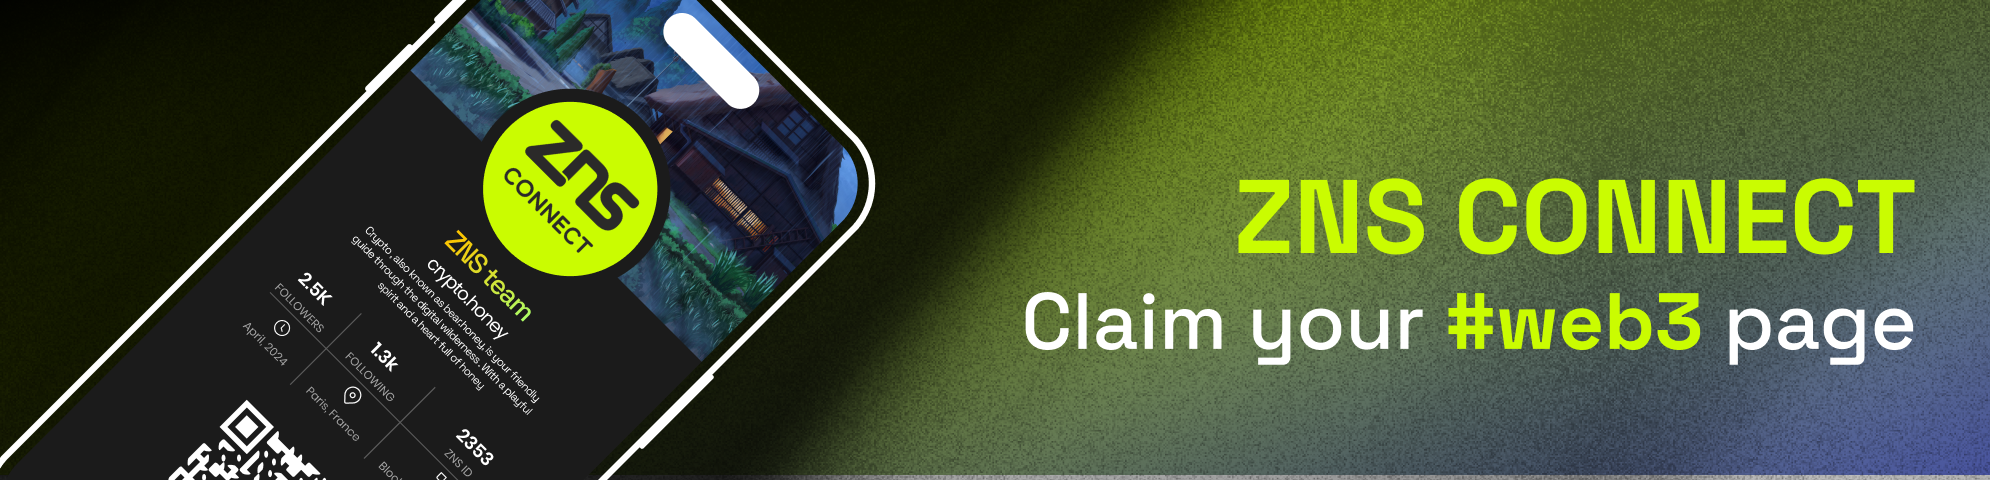
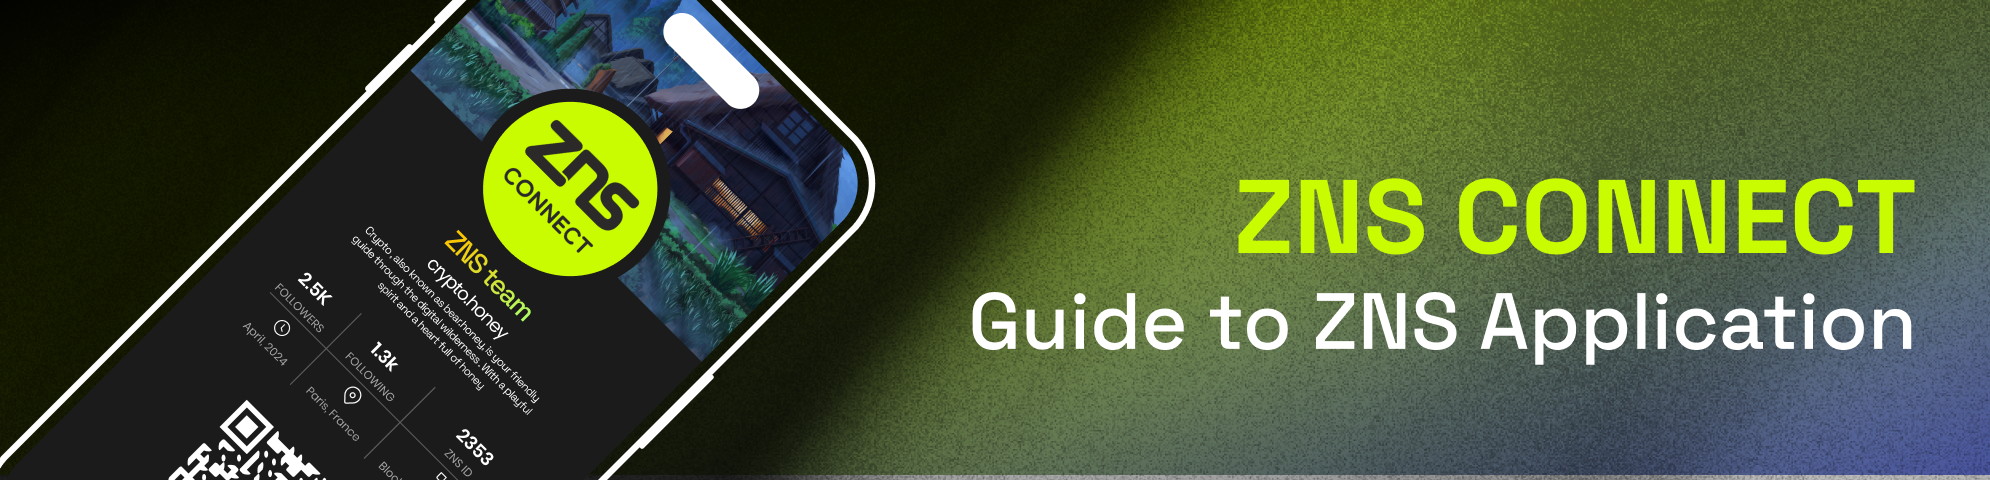
GITBOOK-153: change request with no subject merged in GitBook

Changed region(s): [[0.4673, 0.5938, 0.9658, 0.7812]]

diff --git a/guide.md b/guide.md
@@ -1,0 +1,83 @@
+---
+description: Technical Implementation of ZNS
+cover: .gitbook/assets/1990-490 Welcome (1).png
+coverY: 0
+---
+
+# 👨🏫 Guide to ZNS Application
+
+#### Unlock the Full Potential of ZNS Connect: A Guide to ZNS Application
+
+> Are you ready to take your experience with ZNS Connect to the next level? Let’s dive into the key features and functionalities that will enhance your journey: [https://v3.znsconnect.io/](https://v3.znsconnect.io/)
+
+1. **Smart Search:** Utilize the smart search function to effortlessly identify unoccupied domains, streamlining your search process and saving you valuable time.
+
+<figure><img src="https://cdn-images-1.medium.com/max/960/1*LgJHdirCbxZXk6cW3lcRQw.png" alt=""><figcaption></figcaption></figure>
+
+**2. Registration Process:** Seamlessly register your desired domain by following a straightforward process. Choose your preferred registration period and complete your transaction with a simple click of the “Checkout” button.
+
+<figure><img src="https://cdn-images-1.medium.com/max/960/1*VqD9EkgPcj_W-kU4JIGDkQ.png" alt=""><figcaption></figcaption></figure>
+
+**3. Manage Domains:** Take control of your domains by accessing the “[My Domains](https://v3.znsconnect.io/mydomain)” section.&#x20;
+
+<figure><img src="https://cdn-images-1.medium.com/max/960/1*4ulzsYsTpCDy1F_DCh1GSQ.png" alt=""><figcaption></figcaption></figure>
+
+Here, you can add essential details such as your name, bio, location, website, and category to customize your online presence.
+
+<figure><img src="https://cdn-images-1.medium.com/max/640/1*JKRuy7wTy4JEpOyOqNpzOA.png" alt=""><figcaption></figcaption></figure>
+
+**4. Social Integration:** Connect your domain with your social media accounts to further amplify your online presence. Easily add and verify social media accounts associated with your domain with just a few clicks.
+
+<figure><img src="https://cdn-images-1.medium.com/max/640/1*ClnxqiX7WGxBsvD6xF2r7w.png" alt=""><figcaption></figcaption></figure>
+
+<figure><img src="https://cdn-images-1.medium.com/max/640/1*ng7QB4ED3FkbvpFVcIH0NQ.png" alt=""><figcaption></figcaption></figure>
+
+**5. Domain Maintenance:** Keep your domains up-to-date with the option to renew or delete as needed. This ensures that your online presence remains current and relevant.
+
+<figure><img src="https://cdn-images-1.medium.com/max/960/1*ZjU64SLWgctE7I-7yJkjpg.png" alt=""><figcaption></figcaption></figure>
+
+**6. Gift Cards ( Credits) Functionality:** Explore the exciting functionality of [Credits](https://v3.znsconnect.io/settings?tab=credits) . Easily mint a Gift Card of Credits by entering the desired amount in the settings.
+
+<figure><img src="https://cdn-images-1.medium.com/max/640/1*m6p6iWlZjfSFXchg3_qvbQ.png" alt=""><figcaption></figcaption></figure>
+
+To redeem, navigate to the [Gift Cards](https://v3.znsconnect.io/settings?tab=gift-cards) menu and click **“Redeem”**
+
+<figure><img src="https://cdn-images-1.medium.com/max/640/1*xaiUbjHIOAEPqleZbZhqjg.png" alt=""><figcaption></figcaption></figure>
+
+**7. Sending Gift Cards:** Spread the joy by sending Gift Cards to friends and loved ones. Enter the recipient’s name and address along with the desired amount, making it a breeze to share the gift of personalized domains.
+
+<figure><img src="https://cdn-images-1.medium.com/max/960/1*31ujKQ-knyTZQmSSCLrrTQ.png" alt=""><figcaption></figcaption></figure>
+
+**8. Credit Usage:** Maximize your credits by applying them towards your domain purchases. During checkout, select “Use your credit” and choose “Max” to cover gas fees effortlessly.
+
+<figure><img src="https://cdn-images-1.medium.com/max/960/1*JSCM3S4pZyGwMX5IV9aguQ.png" alt=""><figcaption></figcaption></figure>
+
+**9. Affiliate Program:** Join our [Affiliate Program](https://v3.znsconnect.io/affiliate) to create a custom referral link and earn rewards for spreading the word about ZNS Connect to your network.
+
+<figure><img src="https://cdn-images-1.medium.com/max/960/1*k5cGVbX4vqMh02NuTKCchQ.png" alt=""><figcaption></figcaption></figure>
+
+**10. Badge Claiming:** Engage in on-chain activities to earn badges and showcase your accomplishments on [Badges page](https://v3.znsconnect.io/badges)
+
+<figure><img src="https://cdn-images-1.medium.com/max/640/1*tGR2iLg-K36yJGvtVVvbLg.png" alt=""><figcaption></figcaption></figure>
+
+Visit My Profile to view and claim your badges.
+
+<figure><img src="https://cdn-images-1.medium.com/max/640/1*OCwPZrVw0BbmOZSa8696iQ.png" alt=""><figcaption></figcaption></figure>
+
+\
+
+
+**11. Adding to Favorites:** Easily keep track of your favorite domains by adding them to your Favorites list. Accessible from the Favorites menu, this feature ensures quick access to your preferred domains by searching and clicking on heart&#x20;
+
+<figure><img src="https://cdn-images-1.medium.com/max/960/1*D0NCF6NoN2iMafDAy4hY5Q.png" alt=""><figcaption></figcaption></figure>
+
+**12. Following Each Other:** Stay connected with friends and fellow users by following their domains. Simply locate a domain you want to follow, click “follow,” and find your friends in the Followers section of your profile.
+
+<figure><img src="https://cdn-images-1.medium.com/max/960/1*bxuKGyzMZsIbJpuAv6_tmw.png" alt=""><figcaption></figcaption></figure>
+
+> With these powerful features at your fingertips, you’re equipped to maximize your experience with ZNS Connect and unlock the full potential of your personalized web presence. Start exploring today on [https://znsconnect.io/](https://znsconnect.io/)
+
+**Join ZNS Connect Community:**\
+[Website](https://znsconnect.io/) | [Twitter](https://twitter.com/ZNSConnect) | [Blog](https://medium.com/@znsconnect)| [Discord](https://discord.gg/Y42C3MD9QW) | [Telegram](https://t.me/znsconnect)
+
+\

diff --git a/SUMMARY.md b/SUMMARY.md
@@ -2,9 +2,9 @@
 
 * [🔰 Welcome](README.md)
 * [ℹ Introduction](introduction.md)
-* [Technical Implementation](technical-implementation.md)
 * [Tokenomics and Revenue](tokenomics-and-revenue-streams.md)
 * [Roadmap](roadmap-and-future-development.md)
+* [👨🏫 Guide to ZNS Application](guide.md)
 * [🔣 ZNS Referral Program](referral-program.md)
 * [🎓 ZNS Grant Program](grant-program.md)
 * [🎁 ZNS Gift Cards](gift-cards.md)

diff --git a/README.md b/README.md
@@ -1,6 +1,6 @@
 ---
 description: Welcome to the ZNS Learning Center
-cover: .gitbook/assets/1990-490 Welcome.png
+cover: .gitbook/assets/1990-490 Welcome (2).png
 coverY: 0
 ---
 
